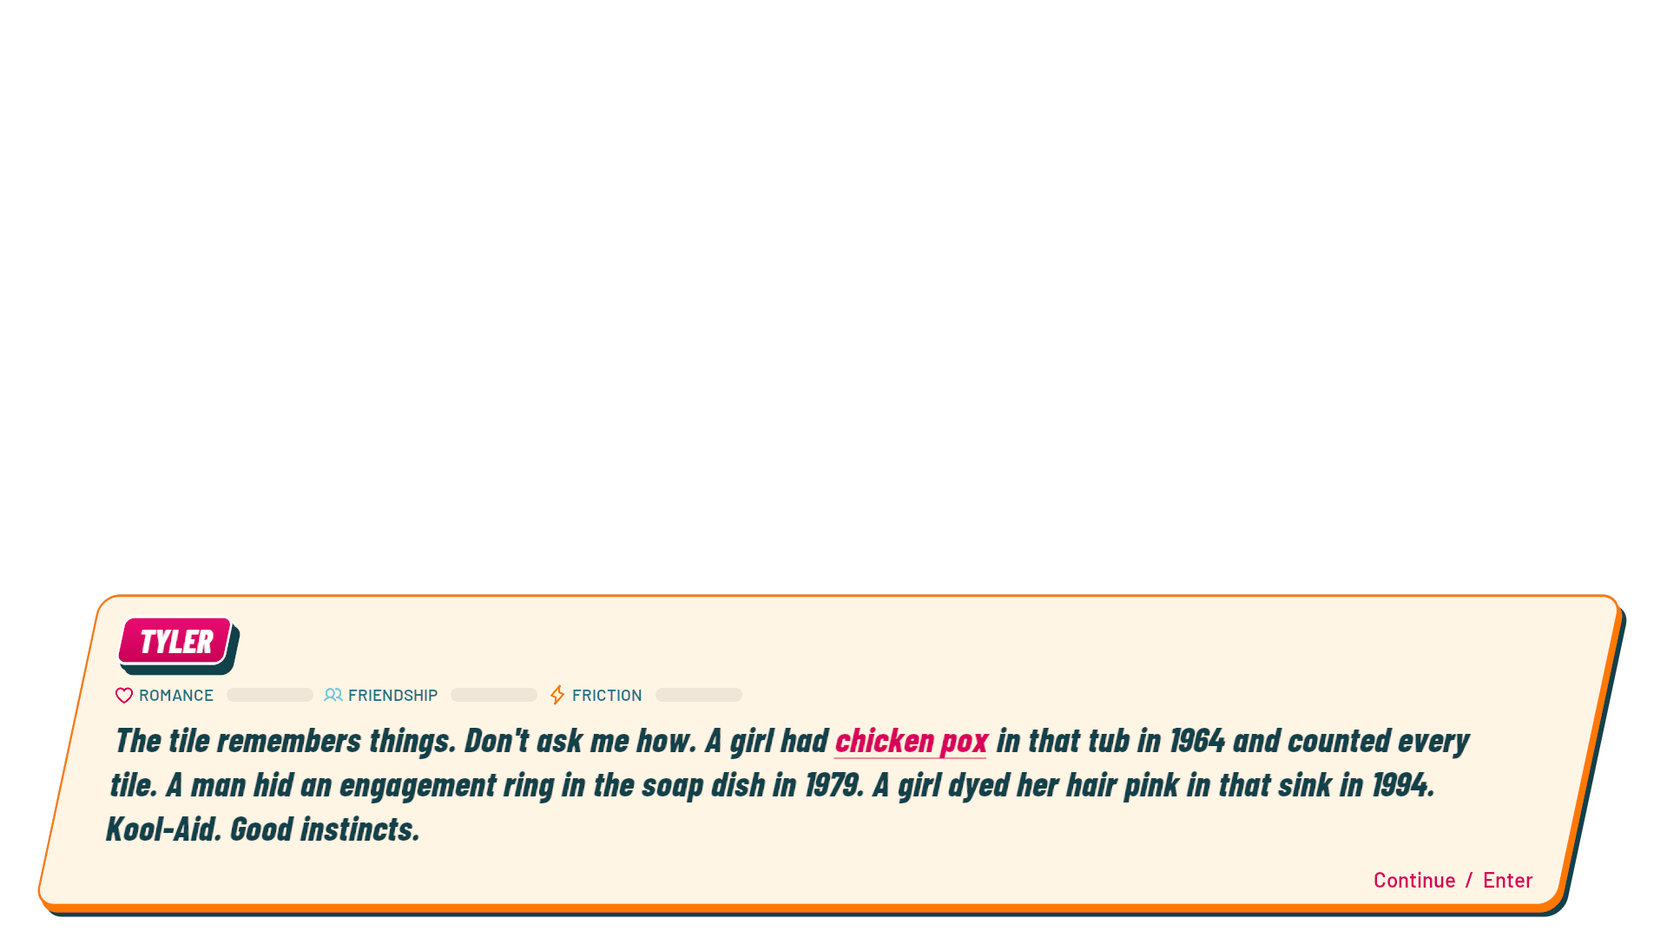
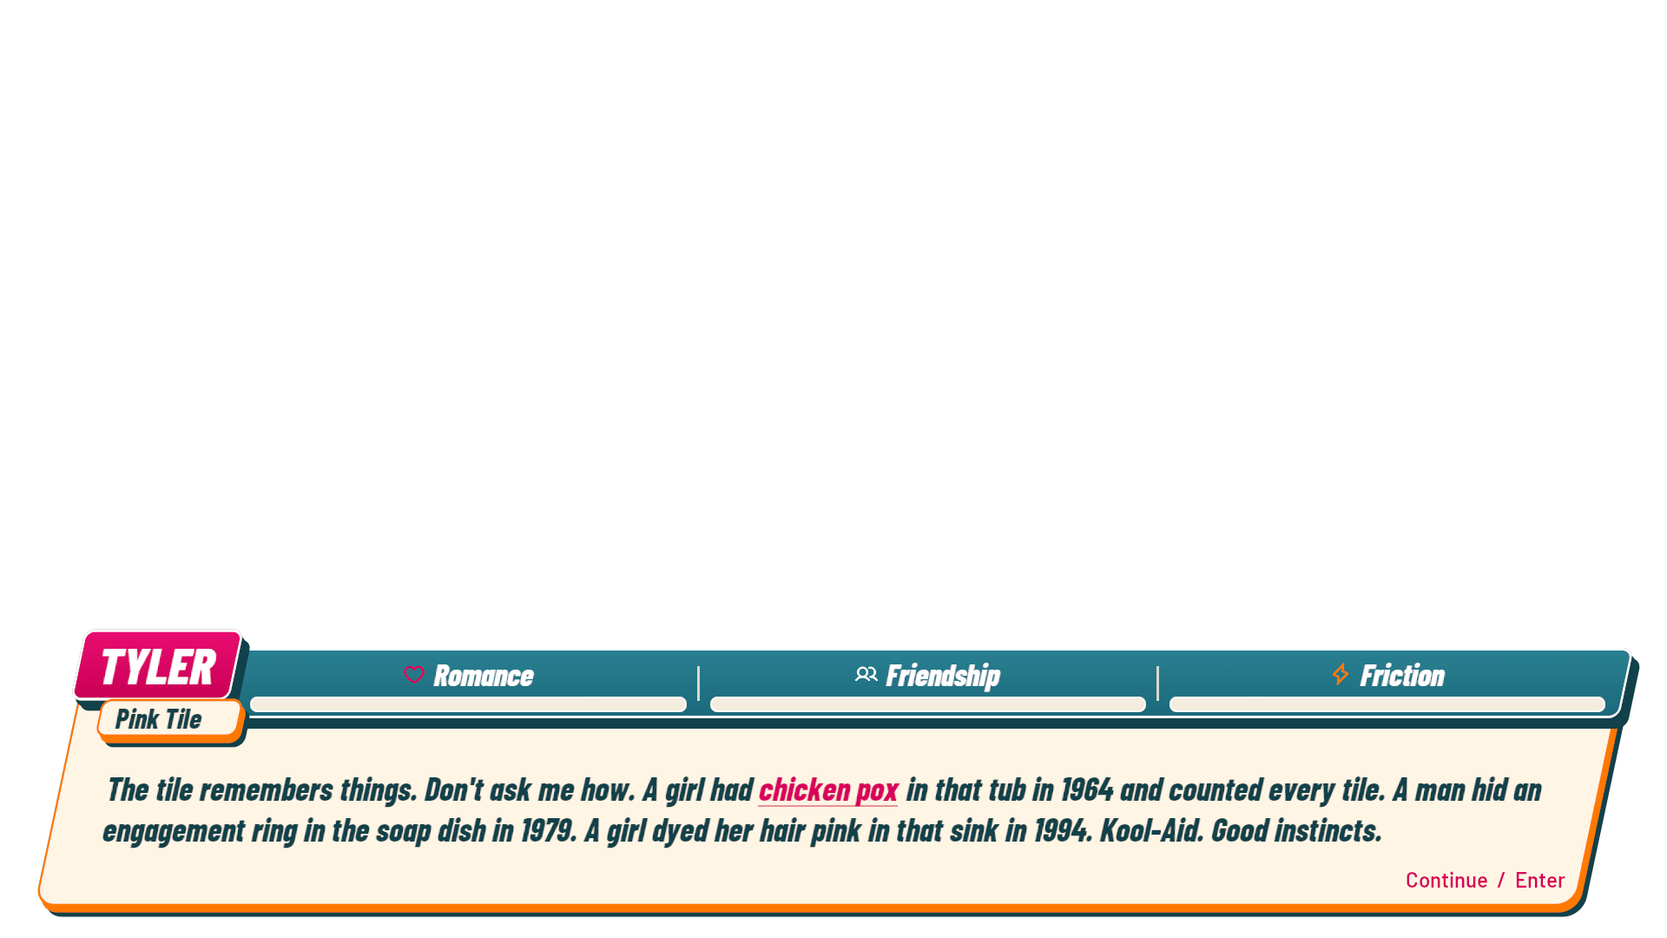
Dialogue show-graphics header on the panel edge; match line and reply size
Pink name plate with cream malady plate and a teal meter strip tucked
behind it straddle the dialogue panel's top edge via MakeHeaderedSurface.
Spoken lines and replies both use the 28-unit display face. Fixtures bind
the authored hunk so captures show the real malady.

Changed region(s): [[0.0312, 0.6111, 1.0, 0.9778]]

diff --git a/Source/ICanFixHim/UI/FixHimDialogueWidget.cpp b/Source/ICanFixHim/UI/FixHimDialogueWidget.cpp
@@ -57,10 +57,98 @@ void UFixHimDialogueWidget::BuildUI()
 
 	UBorder *Panel = WidgetTree->ConstructWidget<UFixHimSurface>();
 	Panel->SetBrush(Rounded(Cream, 26.f, Pink, 4.f));
-	Panel->SetPadding(FMargin(32, 24, 48, 30));
 	Panel->SetVisibility(ESlateVisibility::Visible);
 	PanelSize->SetMaxDesiredHeight(760.f);
-	PanelSize->AddChild(Panel);
+
+	// ---- Header row (show graphics): pink name plate with cream malady plate, then a teal meter strip ----
+	// Overlay so the strip can tuck behind the name plate: strip row first (behind), name stack on top.
+	UOverlay *Header = WidgetTree->ConstructWidget<UOverlay>();
+	HeaderRow = Header;
+	UHorizontalBox *StripRow = WidgetTree->ConstructWidget<UHorizontalBox>();
+	StripLead = WidgetTree->ConstructWidget<USizeBox>();
+	StripLead->SetWidthOverride(200.f);
+	StripRow->AddChildToHorizontalBox(StripLead);
+	UVerticalBox *NameStack = WidgetTree->ConstructWidget<UVerticalBox>();
+	NamePill = WidgetTree->ConstructWidget<UFixHimSurface>();
+	NamePill->SetBrush(Rounded(HotPink, 16.f));
+	NamePill->SetPadding(FMargin(32, 4, 44, 20));
+	NameText = MakeText(WidgetTree, TEXT("NAME"), 44, FLinearColor::White, TEXT("Display"));
+	NamePill->SetContent(NameText);
+	NameStack->AddChildToVerticalBox(NamePill)->SetHorizontalAlignment(HAlign_Left);
+	auto *Malady = WidgetTree->ConstructWidget<UFixHimSurface>();
+	Malady->SetBrush(Rounded(Cream, 10.f));
+	Malady->SetPadding(FMargin(24, 2, 32, 17));
+	MaladyText = MakeText(WidgetTree, TEXT(""), 24, Plum, TEXT("Display"));
+	Malady->SetContent(MaladyText);
+	MaladyPlate = Malady;
+	// Overlaps the name plate's lower edge and steps right along the grid.
+	NameStack->AddChildToVerticalBox(Malady)->SetPadding(FMargin(28, -16, 0, 0));
+	NameStackBox = NameStack;
+
+	UFixHimSurface *Strip = WidgetTree->ConstructWidget<UFixHimSurface>();
+	Strip->SetBrush(Rounded(FixHimDesign::Teal, 12.f));
+	Strip->SetPadding(FMargin(36, 8, 44, 22));
+	UHorizontalBox *Meters = WidgetTree->ConstructWidget<UHorizontalBox>();
+	Strip->SetContent(Meters);
+	auto AddMeter = [&](const FString &Label, const FString &IconName, const FLinearColor &Color) -> UProgressBar * {
+		if (Meters->GetChildrenCount() > 0)
+		{
+			// Thin cream divider between meters.
+			auto *Divider = WidgetTree->ConstructWidget<USizeBox>();
+			Divider->SetWidthOverride(3);
+			Divider->SetHeightOverride(40);
+			auto *Bar = WidgetTree->ConstructWidget<UBorder>();
+			Bar->SetBrushColor(Cream.CopyWithNewOpacity(.7f));
+			Divider->AddChild(Bar);
+			UHorizontalBoxSlot *DivSlot = Meters->AddChildToHorizontalBox(Divider);
+			DivSlot->SetVerticalAlignment(VAlign_Center);
+			DivSlot->SetPadding(FMargin(12, 0));
+		}
+		UVerticalBox *M = WidgetTree->ConstructWidget<UVerticalBox>();
+		UHorizontalBox *Title = WidgetTree->ConstructWidget<UHorizontalBox>();
+		USizeBox *IconBox = WidgetTree->ConstructWidget<USizeBox>();
+		IconBox->SetWidthOverride(26);
+		IconBox->SetHeightOverride(26);
+		IconBox->AddChild(FixHimDesign::Icon(WidgetTree, IconName, Color.Equals(Mint) ? FLinearColor::White : Color));
+		Title->AddChildToHorizontalBox(IconBox)->SetVerticalAlignment(VAlign_Center);
+		UHorizontalBoxSlot *LabelSlot =
+		    Title->AddChildToHorizontalBox(MakeText(WidgetTree, Label, 26, FLinearColor::White, TEXT("Display")));
+		LabelSlot->SetVerticalAlignment(VAlign_Center);
+		LabelSlot->SetPadding(FMargin(10, 0, 0, 0));
+		M->AddChildToVerticalBox(Title)->SetHorizontalAlignment(HAlign_Center);
+		USizeBox *BB = WidgetTree->ConstructWidget<USizeBox>();
+		BB->SetHeightOverride(18.f);
+		BB->SetMinDesiredWidth(160.f);
+		UProgressBar *Bar = WidgetTree->ConstructWidget<UProgressBar>();
+		FProgressBarStyle Style;
+		Style.SetBackgroundImage(Rounded(Cream.CopyWithNewOpacity(.9f), 9.f, FLinearColor::White, 2.f));
+		Style.SetFillImage(Rounded(FLinearColor::White, 9.f));
+		Style.SetMarqueeImage(Rounded(FLinearColor::White, 9.f));
+		Bar->SetWidgetStyle(Style);
+		Bar->SetFillColorAndOpacity(Color);
+		Bar->SetPercent(0.f);
+		BB->AddChild(Bar);
+		M->AddChildToVerticalBox(BB)->SetPadding(FMargin(0, 4, 0, 0));
+		UHorizontalBoxSlot *MeterSlot = Meters->AddChildToHorizontalBox(M);
+		MeterSlot->SetSize(FSlateChildSize(ESlateSizeRule::Fill));
+		MeterSlot->SetVerticalAlignment(VAlign_Center);
+		return Bar;
+	};
+	RomanceBar = AddMeter(TEXT("Romance"), TEXT("heart"), HotPink);
+	FriendBar = AddMeter(TEXT("Friendship"), TEXT("users"), Mint);
+	FrictionBar = AddMeter(TEXT("Friction"), TEXT("lightning"), Ember);
+	MetersBox = Strip;
+	UHorizontalBoxSlot *StripSlot = StripRow->AddChildToHorizontalBox(Strip);
+	StripSlot->SetSize(FSlateChildSize(ESlateSizeRule::Fill));
+	StripSlot->SetVerticalAlignment(VAlign_Center);
+	UOverlaySlot *StripRowSlot = Header->AddChildToOverlay(StripRow);
+	StripRowSlot->SetHorizontalAlignment(HAlign_Fill);
+	StripRowSlot->SetVerticalAlignment(VAlign_Center);
+	UOverlaySlot *NameSlot = Header->AddChildToOverlay(NameStack);
+	NameSlot->SetHorizontalAlignment(HAlign_Left);
+	NameSlot->SetVerticalAlignment(VAlign_Center);
+
+	PanelSize->AddChild(MakeHeaderedSurface(Panel, Header, FMargin(32, 20, 48, 30), 0.f));
 	UHorizontalBox *Row = WidgetTree->ConstructWidget<UHorizontalBox>();
 	Panel->SetContent(Row);
 
@@ -68,60 +156,6 @@ void UFixHimDialogueWidget::BuildUI()
 	UVerticalBox *Col = WidgetTree->ConstructWidget<UFixHimStack>();
 	UHorizontalBoxSlot *ColSlot = Row->AddChildToHorizontalBox(Col);
 	ColSlot->SetSize(FSlateChildSize(ESlateSizeRule::Fill));
-
-	UHorizontalBox *Header = WidgetTree->ConstructWidget<UHorizontalBox>();
-	Col->AddChildToVerticalBox(Header)->SetPadding(FMargin(0.f, 0.f, 0.f, 8.f));
-
-	NamePill = WidgetTree->ConstructWidget<UFixHimSurface>();
-	NamePill->SetBrush(Rounded(HotPink, 16.f));
-	NamePill->SetPadding(FMargin(28, 6, 36, 20));
-	NameText = MakeText(WidgetTree, TEXT("NAME"), 28, FLinearColor::White, TEXT("Display"));
-	NamePill->SetContent(NameText);
-	Header->AddChildToHorizontalBox(NamePill)->SetVerticalAlignment(VAlign_Center);
-
-	MaladyText = MakeText(WidgetTree, TEXT(""), 16, PlumSoft, TEXT("Italic"));
-	UHorizontalBoxSlot *MalSlot = Header->AddChildToHorizontalBox(MaladyText);
-	MalSlot->SetVerticalAlignment(VAlign_Center);
-	MalSlot->SetPadding(FMargin(12.f, 0.f));
-	MalSlot->SetSize(FSlateChildSize(ESlateSizeRule::Fill));
-
-	// Meters: one horizontal row at the right end of the header, each a label then its bar.
-	UHorizontalBox *Meters = WidgetTree->ConstructWidget<UHorizontalBox>();
-	auto AddMeter = [&](const FString &Label, const FLinearColor &Color) -> UProgressBar * {
-		UHorizontalBox *M = WidgetTree->ConstructWidget<UHorizontalBox>();
-		const FString IconName = Label == TEXT("ROMANCE")      ? TEXT("heart")
-		                         : Label == TEXT("FRIENDSHIP") ? TEXT("users")
-		                                                       : TEXT("lightning");
-		USizeBox *IconBox = WidgetTree->ConstructWidget<USizeBox>();
-		IconBox->SetWidthOverride(22);
-		IconBox->SetHeightOverride(22);
-		IconBox->AddChild(FixHimDesign::Icon(WidgetTree, IconName, Color));
-		M->AddChildToHorizontalBox(IconBox)->SetPadding(FMargin(0, 0, 6, 0));
-		UHorizontalBoxSlot *LabelSlot =
-		    M->AddChildToHorizontalBox(MakeText(WidgetTree, Label, 14, PlumSoft, TEXT("Bold")));
-		LabelSlot->SetVerticalAlignment(VAlign_Center);
-		LabelSlot->SetPadding(FMargin(0.f, 0.f, 14.f, 0.f));
-		USizeBox *BB = WidgetTree->ConstructWidget<USizeBox>();
-		BB->SetWidthOverride(100.f);
-		BB->SetHeightOverride(16.f);
-		UProgressBar *Bar = WidgetTree->ConstructWidget<UProgressBar>();
-		FProgressBarStyle Style;
-		Style.SetBackgroundImage(Rounded(Plum.CopyWithNewOpacity(.14f), 8.f));
-		Style.SetFillImage(Rounded(FLinearColor::White, 8.f));
-		Style.SetMarqueeImage(Rounded(FLinearColor::White, 8.f));
-		Bar->SetWidgetStyle(Style);
-		Bar->SetFillColorAndOpacity(Color);
-		Bar->SetPercent(0.f);
-		BB->AddChild(Bar);
-		M->AddChildToHorizontalBox(BB)->SetVerticalAlignment(VAlign_Center);
-		Meters->AddChildToHorizontalBox(M)->SetPadding(FMargin(12.f, 0.f, 0.f, 0.f));
-		return Bar;
-	};
-	RomanceBar = AddMeter(TEXT("ROMANCE"), HotPink);
-	FriendBar = AddMeter(TEXT("FRIENDSHIP"), Mint);
-	FrictionBar = AddMeter(TEXT("FRICTION"), Ember);
-	Col->AddChildToVerticalBox(Meters)->SetPadding(FMargin(0, 0, 0, 12));
-	MetersBox = Meters;
 
 	// Line text: typewriter text while typing, then a wrap box of words so [topics] can be clicked.
 	UOverlay *TextArea = WidgetTree->ConstructWidget<UOverlay>();
@@ -211,6 +245,7 @@ void UFixHimDialogueWidget::BindScript(const FString &ScriptId, const FString &T
 	bScriptScene = true;
 	MetersBox->SetVisibility(ESlateVisibility::Collapsed);
 	MaladyText->SetText(FText::FromString(Title));
+	MaladyPlate->SetVisibility(Title.IsEmpty() ? ESlateVisibility::Collapsed : ESlateVisibility::HitTestInvisible);
 }
 
 void UFixHimDialogueWidget::BindHunk(AFixHimHunk *Hunk, const FString &InHunkId)
@@ -240,11 +275,14 @@ void UFixHimDialogueWidget::ShowView(const FDialogueView &View)
 	                                                    : ESlateVisibility::HitTestInvisible);
 	const bool bNamed = View.Speaker == EDialogueSpeaker::Named;
 	NamePill->SetVisibility(bNarration ? ESlateVisibility::Collapsed : ESlateVisibility::HitTestInvisible);
+	// Narration has no speaker or meters: the panel loses its header row entirely.
+	HeaderRow->SetVisibility(bNarration ? ESlateVisibility::Collapsed : ESlateVisibility::SelfHitTestInvisible);
 	// The malady is the hunk's tag line: not shown while the player or the narrator is the one talking.
 	if (!bScriptScene)
 	{
-		MaladyText->SetVisibility(bPlayer || bNarration ? ESlateVisibility::Collapsed
-		                                                : ESlateVisibility::HitTestInvisible);
+		MaladyPlate->SetVisibility(bPlayer || bNarration || MaladyText->GetText().IsEmpty()
+		                               ? ESlateVisibility::Collapsed
+		                               : ESlateVisibility::HitTestInvisible);
 	}
 	NamePill->SetBrush(Rounded(bPlayer ? Plum : (bNamed ? PlumSoft : HotPink), 16.f));
 	const UFixHimSaveSubsystem *SaveSub = UFixHimSaveSubsystem::Get(this);
@@ -572,12 +610,20 @@ void UFixHimDialogueWidget::NativeTick(const FGeometry &MyGeometry, float InDelt
 	Super::NativeTick(MyGeometry, InDeltaTime);
 
 	ViewSize = MyGeometry.GetLocalSize();
+	if (StripLead && NameStackBox)
+	{
+		// Tuck the strip ~40 units behind the name plate, or start flush when there is no name.
+		const float NameW = NameStackBox->IsVisible() ? NameStackBox->GetDesiredSize().X : 0.f;
+		const float Lead = FMath::Max(0.f, NameW - 40.f);
+		if (!FMath::IsNearlyEqual(StripLead->GetWidthOverride(), Lead, .5f))
+			StripLead->SetWidthOverride(Lead);
+	}
 	if (PanelSize)
 	{
 		// A quarter of the screen plus room for two more lines of text (24pt, ~32px each).
 		PanelSize->SetMinDesiredHeight(160);
 		PanelSize->SetMaxDesiredHeight(ViewSize.Y * .78f);
-		const float HeaderHeight = NamePill->IsVisible() ? 160.f : 20.f;
+		const float HeaderHeight = HeaderRow->IsVisible() ? HeaderRow->GetDesiredSize().Y * .5f + 60.f : 20.f;
 		LineBounds->SetMaxDesiredHeight(
 		    FMath::Max(72.f, ViewSize.Y * .78f - ChoiceBox->GetDesiredSize().Y - HeaderHeight - 100.f));
 	}

diff --git a/Source/ICanFixHim/UI/FixHimUI.cpp b/Source/ICanFixHim/UI/FixHimUI.cpp
@@ -426,7 +426,7 @@ namespace
 {
 // Surface faces leave this much of their box for the extrusion and shadow (see FixHimDesign Surface()).
 constexpr float DepthX = 12.f, DepthY = 15.f;
-constexpr float HeaderInset = 36.f, HeaderGap = 18.f;
+
 } // namespace
 
 UWidget *UFixHimWidget::MakeHeaderedSurface(UBorder *Surface, const FString &Title, const FMargin &Padding)
@@ -435,16 +435,22 @@ UWidget *UFixHimWidget::MakeHeaderedSurface(UBorder *Surface, const FString &Tit
 	Surface->SetPadding(Padding);
 	if (Title.IsEmpty())
 		return Surface;
-	auto *Stack = WidgetTree->ConstructWidget<UOverlay>();
-	UOverlaySlot *SurfaceSlot = Stack->AddChildToOverlay(Surface);
-	SurfaceSlot->SetHorizontalAlignment(HAlign_Fill);
-	SurfaceSlot->SetVerticalAlignment(VAlign_Fill);
 	auto *Heading = MakeText(WidgetTree, Title.ToUpper(), FixHimDesign::Heading, Cream, TEXT("Display"));
 	Heading->SetJustification(ETextJustify::Center);
 	auto *Header = WidgetTree->ConstructWidget<UFixHimSurface>();
 	Header->SetBrush(Rounded(FixHimDesign::Teal, 12));
 	Header->SetPadding(FMargin(32, 12, 40, 16));
 	Header->SetContent(Heading);
+	return MakeHeaderedSurface(Surface, Header, Padding);
+}
+
+UWidget *UFixHimWidget::MakeHeaderedSurface(UBorder *Surface, UWidget *Header, const FMargin &Padding, float Inset)
+{
+	Surface->SetPadding(Padding);
+	auto *Stack = WidgetTree->ConstructWidget<UOverlay>();
+	UOverlaySlot *SurfaceSlot = Stack->AddChildToOverlay(Surface);
+	SurfaceSlot->SetHorizontalAlignment(HAlign_Fill);
+	SurfaceSlot->SetVerticalAlignment(VAlign_Fill);
 	UOverlaySlot *HeaderSlot = Stack->AddChildToOverlay(Header);
 	HeaderSlot->SetHorizontalAlignment(HAlign_Fill);
 	HeaderSlot->SetVerticalAlignment(VAlign_Top);
@@ -452,6 +458,7 @@ UWidget *UFixHimWidget::MakeHeaderedSurface(UBorder *Surface, const FString &Tit
 	Layout.Header = Header;
 	Layout.Surface = Surface;
 	Layout.Padding = Padding;
+	Layout.Inset = Inset;
 	SyncHeaderLayouts();
 	return Stack;
 }
@@ -466,8 +473,10 @@ void UFixHimWidget::SyncHeaderLayouts()
 		if (!Header || !Surface)
 			continue;
 		// Before the first layout pass, estimate from the heading size so the first frame is already close.
-		float HeaderH = Header->GetDesiredSize().Y;
-		if (HeaderH <= 0)
+		// A collapsed header (e.g. dialogue narration) reserves nothing.
+		const bool bShown = Header->GetVisibility() != ESlateVisibility::Collapsed;
+		float HeaderH = bShown ? Header->GetDesiredSize().Y : 0.f;
+		if (bShown && HeaderH <= 0)
 			HeaderH = 28.f + 1.25f * FixHimDesign::Heading * FixHimDesign::TextScale() + DepthY;
 		float SurfaceH = Surface->GetCachedGeometry().GetLocalSize().Y;
 		if (SurfaceH <= 0)
@@ -476,17 +485,18 @@ void UFixHimWidget::SyncHeaderLayouts()
 		if (Measured.Equals(L.Measured, .5))
 			continue;
 		L.Measured = Measured;
-		const float PlateFace = HeaderH - DepthY, Drop = PlateFace * .5f;
+		const float PlateFace = FMath::Max(0.f, HeaderH - DepthY), Drop = PlateFace * .5f;
 		if (auto *SurfaceSlot = Cast<UOverlaySlot>(Surface->Slot))
 			SurfaceSlot->SetPadding(FMargin(0, Drop, 0, 0));
 		FMargin P = L.Padding;
-		P.Top += HeaderH - Drop;
+		if (bShown)
+			P.Top += HeaderH - Drop;
 		Surface->SetPadding(P);
 		// Both faces lean 12 degrees. At the plate's mid-height (the surface's top edge) the surface face spans
 		// [FaceH*K, BoxW-DepthX] and the plate face spans [Left + PlateFace*K/2, Left + PlateW - DepthX - PlateFace*K/2].
 		const float SurfaceFace = FMath::Max(0.f, SurfaceH - DepthY);
-		const float Left = SurfaceFace * K + HeaderInset - Drop * K;
-		const float Right = HeaderInset - Drop * K;
+		const float Left = SurfaceFace * K + L.Inset - Drop * K;
+		const float Right = L.Inset - Drop * K;
 		if (auto *HeaderSlot = Cast<UOverlaySlot>(Header->Slot))
 			HeaderSlot->SetPadding(FMargin(Left, 0, Right, 0));
 	}

diff --git a/Source/ICanFixHim/Tests/FixHimDesignSystemTest.cpp b/Source/ICanFixHim/Tests/FixHimDesignSystemTest.cpp
@@ -169,6 +169,7 @@ bool FFixHimDesignSystemTest::RunTest(const FString &Parameters)
 	                 "pink in that sink in 1994. Kool-Aid. Good instincts.");
 	View.Choices = {LongReply, TEXT("I want to know who you were before the house. If you want to tell me."),
 	                TEXT("You can love a place and still want to leave it."), TEXT("Let's fix this together.")};
+	Dialogue->BindHunk(nullptr, TEXT("tyler")); // header shows the authored malady
 	Dialogue->ShowView(View);
 	Dialogue->TryCompleteTyping();
 	Render(Dialogue, TEXT("04-dialogue-four-replies"), {1920, 1080}, {1920, 1080});
@@ -336,6 +337,7 @@ bool FFixHimDesignSystemTest::RunTest(const FString &Parameters)
 		for (const auto &Choice : Case->GetArrayField(TEXT("choices")))
 			View.Choices.Add(Choice->AsObject()->GetStringField(TEXT("text")));
 		View.ActiveTopics = {TEXT("pox"), TEXT("mudset"), TEXT("bonjovi")};
+		Dialogue->BindHunk(nullptr, Script); // real malady and meters from the authored definition
 		Dialogue->ShowView(View);
 		Dialogue->TryCompleteTyping();
 		Render(Dialogue, FString::Printf(TEXT("18-authored-case-%02d"), ++FixtureIndex), {1920, 1080}, {1920, 1080});

diff --git a/Source/ICanFixHim/UI/FixHimUI.h b/Source/ICanFixHim/UI/FixHimUI.h
@@ -218,6 +218,8 @@ class ICANFIXHIM_API UFixHimWidget : public UUserWidget
 	 * widget to place in the layout (the surface alone when Title is empty).
 	 */
 	UWidget *MakeHeaderedSurface(UBorder *Surface, const FString &Title, const FMargin &Padding);
+	/** As above with a custom header row; Inset is the space kept from each slanted side at the top edge. */
+	UWidget *MakeHeaderedSurface(UBorder *Surface, UWidget *Header, const FMargin &Padding, float Inset = 36.f);
 
   private:
 	/** The card from MakeCardScreen; it grows in with a small overshoot every time the widget is shown. */
@@ -229,6 +231,7 @@ class ICANFIXHIM_API UFixHimWidget : public UUserWidget
 		TWeakObjectPtr<UWidget> Header;
 		TWeakObjectPtr<UBorder> Surface;
 		FMargin Padding;
+		float Inset = 36.f;
 		FVector2D Measured = FVector2D(-1, -1);
 	};
 	TArray<FHeaderLayout> HeaderLayouts;

diff --git a/Source/ICanFixHim/UI/FixHimDialogueWidget.h b/Source/ICanFixHim/UI/FixHimDialogueWidget.h
@@ -69,6 +69,12 @@ private:
 	UPROPERTY() TObjectPtr<USizeBox> PanelSize;
 	UPROPERTY() TObjectPtr<UWidget> MetersBox;
 	UPROPERTY() TObjectPtr<UBorder> NamePill;
+	/** Name plate, malady plate and teal meter strip, straddling the panel's top edge. */
+	UPROPERTY() TObjectPtr<UWidget> HeaderRow;
+	UPROPERTY() TObjectPtr<UWidget> MaladyPlate;
+	UPROPERTY() TObjectPtr<UWidget> NameStackBox;
+	/** Tracks the name stack's width so the meter strip starts tucked behind the name plate. */
+	UPROPERTY() TObjectPtr<USizeBox> StripLead;
 	UPROPERTY() TObjectPtr<UTextBlock> NameText;
 	UPROPERTY() TObjectPtr<UTextBlock> MaladyText;
 	UPROPERTY() TObjectPtr<UTextBlock> TypingText;

diff --git a/Source/ICanFixHim/UI/FixHimDesign.h b/Source/ICanFixHim/UI/FixHimDesign.h
@@ -22,7 +22,7 @@ inline const FLinearColor Scrim = Ink.CopyWithNewOpacity(.72f);
 inline constexpr float Slant = 0.2125565617f;        // tan(12 degrees)
 inline constexpr float DisplayShear = 0.0897720008f; // tan(12) - tan(7)
 inline constexpr float HitHeight = 48.f;
-inline constexpr int32 Caption = 16, Body = 22, Line = 30, Reply = 28, Label = 24, Heading = 36, Hero = 72;
+inline constexpr int32 Caption = 16, Body = 22, Line = 28, Reply = 28, Label = 24, Heading = 36, Hero = 72;
 ICANFIXHIM_API bool ReducedMotion();
 ICANFIXHIM_API float TextScale();
 ICANFIXHIM_API UImage *Icon(UWidgetTree *Tree, const FString &Name, const FLinearColor &Tint);

diff --git a/docs/04 Tech/UI Component Library.md b/docs/04 Tech/UI Component Library.md
@@ -41,7 +41,7 @@ Use the common popup `MakeCardScreen` rather than building a new modal frame per
 
 `UFixHimButton::Make` creates a wrapping labelled action button and accepts its existing callback. `SetVariant(EFixHimButtonVariant)` selects a semantic variant. The legacy boolean overload remains for existing callers. `Label` is available for alignment and content updates.
 
-Short action labels use Barlow Condensed ExtraBold Italic with the shared 12° display treatment. Replies and spoken dialogue lines use the display face at 28 and 30 units; the dialogue line area is sheared as one block so the typewriter and final topic layouts match. Actions have a content-driven height with a 72-unit minimum in menus, allowing enlarged text to grow.
+Short action labels use Barlow Condensed ExtraBold Italic with the shared 12° display treatment. Replies and spoken dialogue lines both use the display face at 28 units; the dialogue line area is sheared as one block so the typewriter and final topic layouts match. Actions have a content-driven height with a 72-unit minimum in menus, allowing enlarged text to grow.
 
 States: idle, hover, keyboard/gamepad focus, pressed, selected and disabled. Selected reuses the focus treatment. Shared action buttons show a white contour and diamond on hover/focus; state meaning does not rely on pink alone. Pressing moves the face towards its extrusion; disabled uses neutral surface/ink. No heart is added to a reply to predict relationship outcomes.
 
@@ -61,7 +61,7 @@ Stock Slate button behavior still handles pointer capture, keyboard/gamepad acti
 
 Shared components are used by title/name entry, pause/options/credits, end-day confirmation, dialogue, ending cards, HUD labels, radio captions, character introductions, transitions and keepsakes. The floor plan keeps actual runtime room rectangles and applies the selected palette to its surrounding sheet and statuses.
 
-Dialogue retains its typewriter, clickable topic callbacks and authored choices. Meters use a separate compact labelled row with Phosphor heart/users/lightning icons; narration and generic script scenes hide the relationship group. Four replies stack and wrap. Dialogue has no portrait. Character introductions use visible painted portraits where available.
+Dialogue retains its typewriter, clickable topic callbacks and authored choices. The header row (name plate, malady plate, teal meter strip with Phosphor heart/users/lightning icons) straddles the panel via `MakeHeaderedSurface`; narration and generic script scenes hide the relationship group. Four replies stack and wrap. Dialogue has no portrait. Character introductions use visible painted portraits where available.
 
 `UFixHimWidget::MakeHeaderedSurface` wraps any slanted surface with a teal title plate straddling its top edge. `MakeCardScreen` and the floor plan use it; the plate position is re-fitted each tick from measured sizes, so text scaling and content changes stay aligned.
 

diff --git a/docs/03 Art & Audio/UI Design System.md b/docs/03 Art & Audio/UI Design System.md
@@ -66,6 +66,7 @@ The selected treatment restores **rounded corners, thicker asymmetric borders an
 - Rounded cream panel bodies pair with teal headers, orange borders heavier on the lower/right sides, and short ink offset shadows.
 - **Popup and sheet headers** are teal plates straddling the surface's top edge: the plate face is centred vertically on that edge and inset equally from both slanted sides.
 - Dialogue shows **no character portrait**; the character is present in the scene.
+- The **dialogue header** straddles the panel's top edge: a pink name plate with a cream malady plate overlapping its lower edge, and a teal strip tucked behind it holding the three meters (icon, white display label, thick bar in the stat color, cream dividers). Narration has no header. Spoken lines and replies share one size.
 - Use common silhouettes and contour layers across button states and popup variants. Reuse one modal shell with width variants and content-driven height.
 - Primary actions use pink; secondary surfaces use cream. Focus needs a pointer or keyline as well as color. Do not add hearts to focused replies or imply relationship outcomes.
 - Body text and icons remain upright. Do not rotate a whole popup or shear a brand master.

diff --git a/docs/03 Art & Audio/UI Review.md b/docs/03 Art & Audio/UI Review.md
@@ -11,7 +11,7 @@ date: 2026-11-12
 
 - **Surfaces:** corner roundness; white keyline with ink depth on teal/pink, orange border and extrusion on cream.
 - **Type and spacing:** display/body hierarchy, action-label sizing, angled columns and padding.
-- **Dialogue:** display-face lines and replies, relationship row, reading width and the balance between four replies and visible scene. Portraits are removed.
+- **Dialogue:** show-graphics header (name, malady, teal meter strip) on the top edge, same-size display-face lines and replies, reading width and the balance between four replies and visible scene. Portraits are removed.
 - **Headers:** teal plates straddling the top edge of popups and the floor plan.
 - **Floor plan:** narrow rooms now use external name tags that overhang their footprint; room geometry is unchanged.
 - **Interaction:** filled pointer, white contour and lift for keyboard/gamepad focus (hover changes fill only), pressed depth, transition feel, enlarged text and scrolling.
